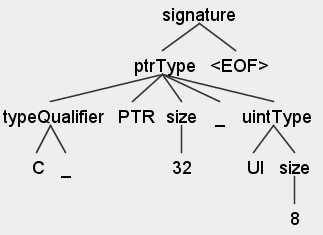
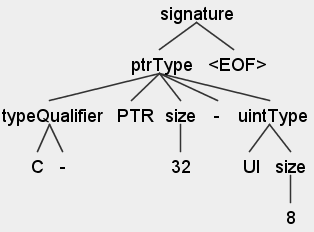
Updated README.md.

diff --git a/README.md b/README.md
@@ -51,7 +51,7 @@ Figure 2: Sign2016 "I32" AST Example
 
 ![alt text][Sign2016-2]
 
-[Sign2016-2]: https://production.github.bshg.com/ondrik/Sy2Parser/blob/feat/typedef/doc/img/Sign2016-2.PNG "Figure 3: Sign2016 C_PTR32_UI8 AST Example"
+[Sign2016-2]: https://production.github.bshg.com/ondrik/Sy2Parser/blob/feat/typedef/doc/img/Sign2016-2.PNG "Figure 3: Sign2016 C-PTR32-UI8 AST Example"
 Figure 3: Sign2016 "C_PTR32_UI8" AST Example
 </td>
 </tr>
